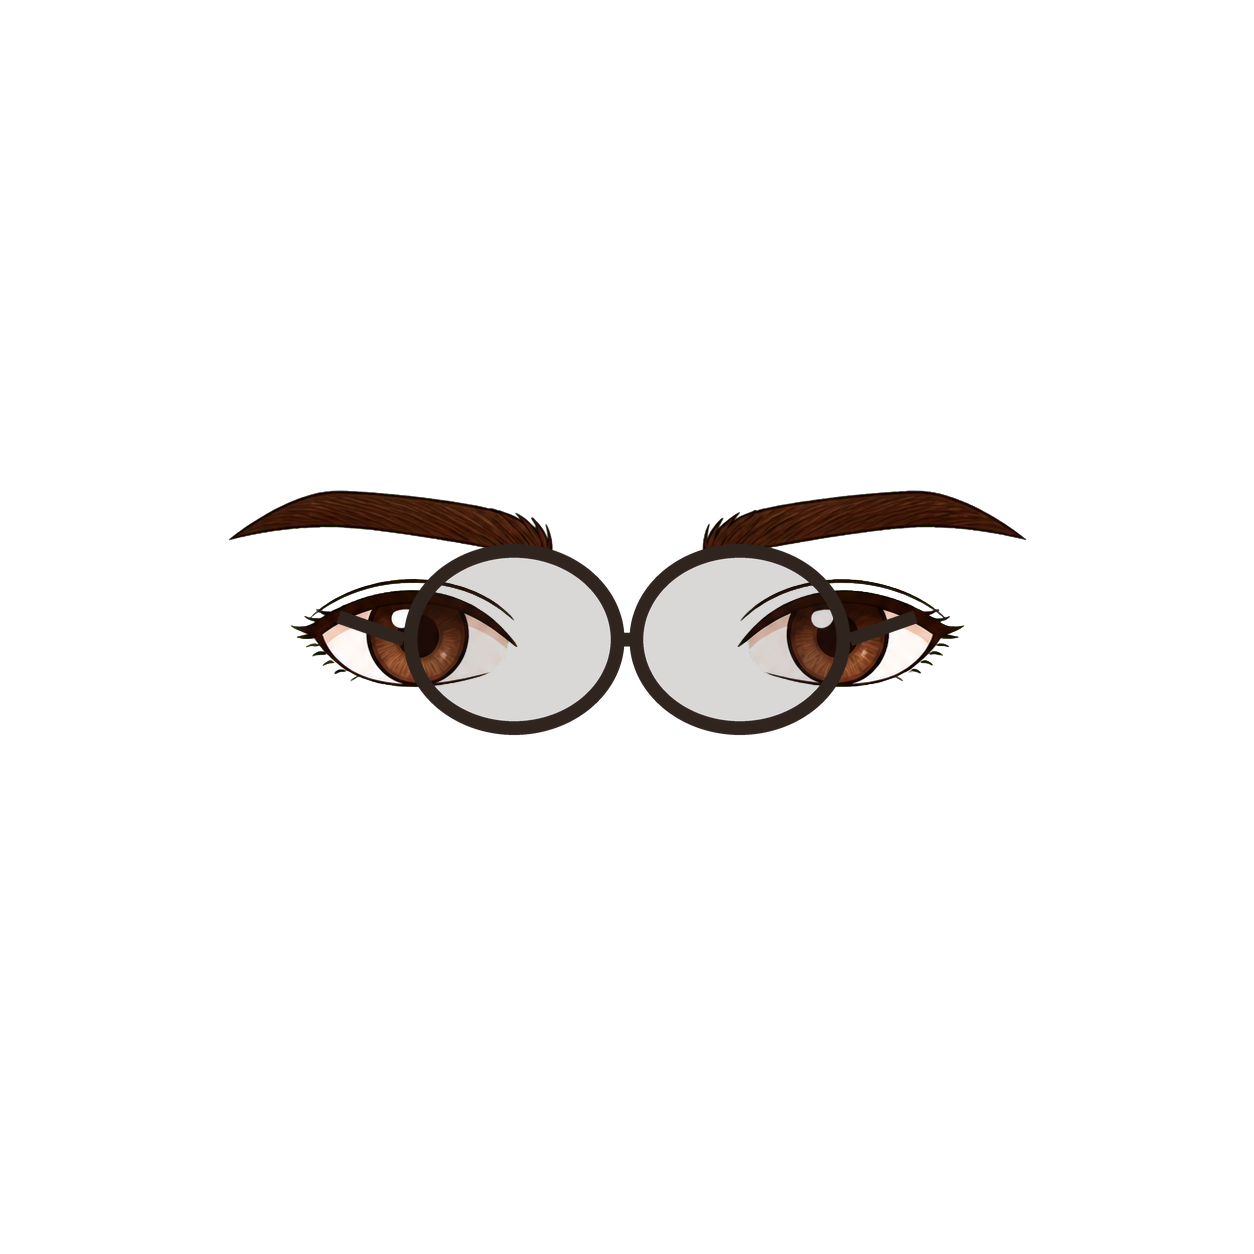
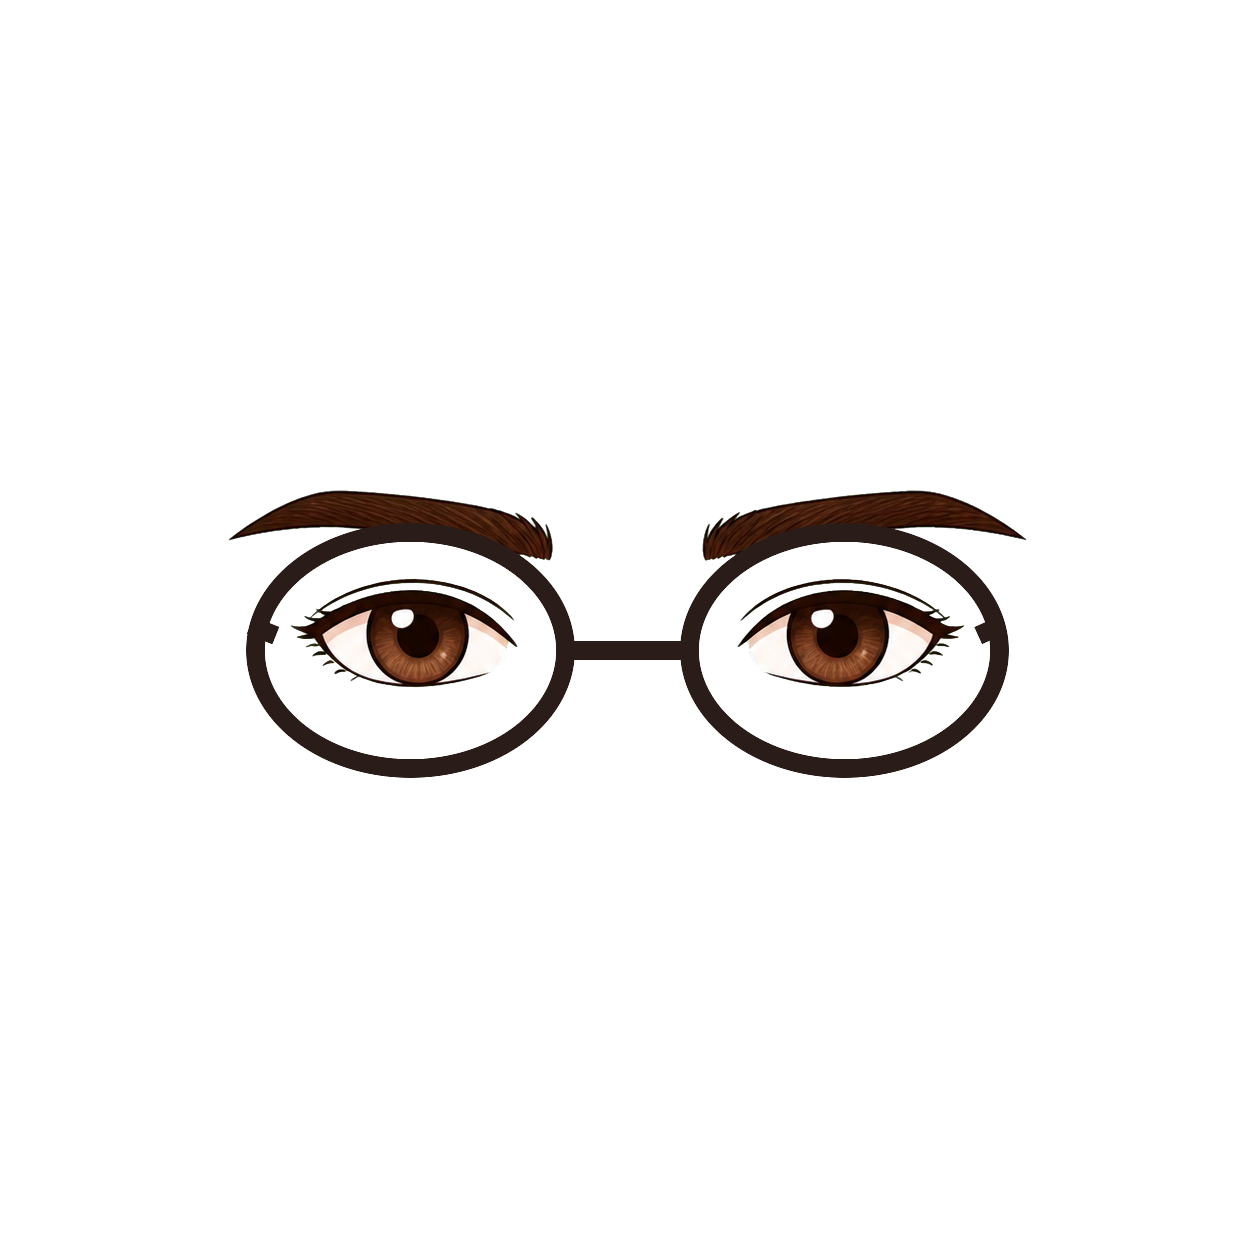
修正：依臉部基準校正紙娃娃素材

Changed region(s): [[0.1866, 0.4043, 0.8086, 0.622], [0.2177, 0.5598, 0.2488, 0.5909]]

diff --git a/test/avatar_visual_matrix_test.dart b/test/avatar_visual_matrix_test.dart
@@ -138,6 +138,49 @@ void main() {
     }
   });
 
+  test('composes every eye option into an inspectable reviewer sheet',
+      () async {
+    final Directory outputDirectory = Directory(
+      '/private/tmp/mathspring-avatar-eye-matrix',
+    );
+    await outputDirectory.create(recursive: true);
+
+    for (final AvatarPresentation presentation in AvatarPresentation.values) {
+      final List<File> composites = <File>[];
+      for (final String eyesId
+          in AvatarConfiguration.optionsFor(presentation, 'eyes')) {
+        final AvatarConfiguration configuration =
+            AvatarConfiguration.defaultFor(presentation).copyWith(
+          eyesId: eyesId,
+        );
+        final File composite = File(
+          '${outputDirectory.path}/${presentation.name}-$eyesId.png',
+        );
+        await _composeAvatar(configuration, composite);
+        expect(await composite.length(), greaterThan(1000), reason: eyesId);
+        composites.add(composite);
+      }
+      final File sheet = File(
+        '${outputDirectory.path}/${presentation.name}-eyes.png',
+      );
+      await _runMagick(<String>[
+        'montage',
+        ...composites.map((File file) => file.path),
+        '-tile',
+        '4x',
+        '-geometry',
+        '130x130+4+18',
+        '-label',
+        '%t',
+        '-background',
+        'white',
+        sheet.path,
+      ]);
+      expect(await sheet.length(), greaterThan(1000),
+          reason: '${presentation.name} eye matrix must be non-empty');
+    }
+  });
+
   test(
       'every non-default skin keeps the composed canvas background transparent',
       () async {
@@ -325,7 +368,8 @@ Future<double> _criticalEyeOverlap(AvatarConfiguration configuration) async {
     '20x40+815+605',
   ];
   double greatestOverlap = 0;
-  final int hairWidth = (1254 * assets.hairScale * assets.hairScaleX.abs()).round();
+  final int hairWidth =
+      (1254 * assets.hairScale * assets.hairScaleX.abs()).round();
   final int hairHeight = (1254 * assets.hairScale).round();
   final int hairOffsetX = (1254 * assets.hairOffsetX).round();
   final int hairOffsetY = (1254 * assets.hairOffsetY).round();

diff --git a/lib/widgets/avatar_editor.dart b/lib/widgets/avatar_editor.dart
@@ -13,11 +13,15 @@ class AvatarEditor extends StatefulWidget {
     this.onChanged,
     this.assetPackage,
     this.sectionSelectorLayout = AvatarSectionSelectorLayout.scrollable,
+    this.showOptionIds = false,
   });
   final AvatarConfiguration? initialConfiguration;
   final ValueChanged<AvatarConfiguration>? onChanged;
   final String? assetPackage;
   final AvatarSectionSelectorLayout sectionSelectorLayout;
+
+  /// Used by the reviewer tool so artwork can be identified unambiguously.
+  final bool showOptionIds;
   @override
   State<AvatarEditor> createState() => _AvatarEditorState();
 }
@@ -244,6 +248,33 @@ class _AvatarEditorState extends State<AvatarEditor> {
                     child: const Padding(
                       padding: EdgeInsets.all(3),
                       child: Icon(Icons.check, color: Colors.white, size: 14),
+                    ),
+                  ),
+                ),
+              if (widget.showOptionIds)
+                Align(
+                  alignment: Alignment.bottomLeft,
+                  child: Padding(
+                    padding: const EdgeInsets.all(3),
+                    child: DecoratedBox(
+                      decoration: BoxDecoration(
+                        color: Colors.black.withValues(alpha: .68),
+                        borderRadius: BorderRadius.circular(4),
+                      ),
+                      child: Padding(
+                        padding: const EdgeInsets.symmetric(
+                          horizontal: 4,
+                          vertical: 2,
+                        ),
+                        child: Text(
+                          id,
+                          style: const TextStyle(
+                            color: Colors.white,
+                            fontSize: 9,
+                            fontWeight: FontWeight.w600,
+                          ),
+                        ),
+                      ),
                     ),
                   ),
                 ),

diff --git a/test/avatar_editor_test.dart b/test/avatar_editor_test.dart
@@ -41,14 +41,38 @@ void main() {
         findsOneWidget);
     expect(find.text('膚色'), findsOneWidget);
 
-    await tester.tap(
-      find.byKey(const ValueKey<String>('avatar_section_tab_3')),
-    );
-    await tester.pump();
+    for (int step = 0; step < 3; step++) {
+      await tester
+          .tap(find.byKey(const ValueKey<String>('avatar_next_button')));
+      await tester.pump();
+    }
 
     expect(find.text('髮型'), findsAtLeastNWidgets(1));
     expect(find.byKey(const ValueKey<String>('avatar_option_girl_hair_01')),
         findsOneWidget);
+  });
+
+  testWidgets('can show stable asset IDs on preview option tiles',
+      (tester) async {
+    await tester.pumpWidget(
+      const MaterialApp(
+        home: Scaffold(body: AvatarEditor(showOptionIds: true)),
+      ),
+    );
+
+    for (int step = 0; step < 3; step++) {
+      await tester
+          .tap(find.byKey(const ValueKey<String>('avatar_next_button')));
+      await tester.pump();
+    }
+
+    expect(find.text('girl_hair_01'), findsOneWidget);
+    await tester.scrollUntilVisible(
+      find.text('girl_hair_10'),
+      120,
+      scrollable: find.byType(Scrollable).last,
+    );
+    expect(find.text('girl_hair_10'), findsOneWidget);
   });
 
   testWidgets('keeps direct section controls and navigation inside iPhone view',
@@ -188,7 +212,8 @@ void main() {
     expect(mouthArt.transform.storage[0], 3);
   });
 
-  testWidgets('shows the third boy hairstyle as its own untransformed thumbnail',
+  testWidgets(
+      'shows the third boy hairstyle as its own untransformed thumbnail',
       (tester) async {
     await tester.pumpWidget(
       const MaterialApp(home: Scaffold(body: AvatarEditor())),

diff --git a/lib/services/avatar_asset_catalog.dart b/lib/services/avatar_asset_catalog.dart
@@ -109,14 +109,7 @@ class AvatarAssetCatalog {
   /// while keeping pupils visible.
   static const Map<String, AvatarOptionTreatment> _treatments =
       <String, AvatarOptionTreatment>{
-    // The baseline front fringe was painted just below the reference face's
-    // hairline; lift it enough to keep the pupils visible.
-    'boy_hair_01': AvatarOptionTreatment(offsetY: -.1),
-    'boy_hair_02': AvatarOptionTreatment(scale: .85, offsetY: -.12),
-    'girl_hair_02': AvatarOptionTreatment(scale: .80, offsetY: -.12),
     'girl_hair_07': AvatarOptionTreatment(scale: .80, offsetY: -.12),
-    'girl_hair_08': AvatarOptionTreatment(scale: .80, offsetY: -.12),
-    'girl_hair_09': AvatarOptionTreatment(scale: .80, offsetY: -.12),
   };
 
   static AvatarOptionTreatment treatmentFor(String optionId) {

diff --git a/test/avatar_layering_test.dart b/test/avatar_layering_test.dart
@@ -95,7 +95,7 @@ void main() {
       }
     });
 
-    test('第一款男生髮型以微量上移對齊基準臉', () {
+    test('第一款男生髮型以共用畫布對齊基準臉', () {
       final AvatarAssetBundle reference = AvatarAssetCatalog.resolve(
         AvatarConfiguration.defaultFor(AvatarPresentation.boy),
       );
@@ -105,7 +105,7 @@ void main() {
       expect(reference.hairScale, 1);
       expect(reference.hairScaleX, 1);
       expect(reference.hairOffsetX, 0);
-      expect(reference.hairOffsetY, -.1);
+      expect(reference.hairOffsetY, 0);
     });
   });
 

diff --git a/test/avatar_preview_test.dart b/test/avatar_preview_test.dart
@@ -391,13 +391,13 @@ void main() {
         'assets/avatars/girl/mouth/mouth-07.png');
   });
 
-  test('calibrates the boy hair layer above the eye line', () {
+  test('keeps the boy baseline hair on the shared face canvas', () {
     final AvatarAssetBundle assets = AvatarAssetCatalog.resolve(
       AvatarConfiguration.defaultFor(AvatarPresentation.boy),
     );
 
     expect(assets.hairScale, 1);
-    expect(assets.hairOffsetY, -.1);
+    expect(assets.hairOffsetY, 0);
   });
 
   test('keeps the new boy hairstyle artwork on its aligned canvas', () {

diff --git a/docs/plans/2026-09-10-avatar-material-specification.md b/docs/plans/2026-09-10-avatar-material-specification.md
@@ -27,14 +27,14 @@
 | 臉型 | `girl_face_01` | 女生基準臉型；髮型驗收的臉部邊界參考 |
 |  | `girl_face_02`–`girl_face_05` | 其他輪廓版本；變化限定在臉型外輪廓，不改五官基準位置 |
 | 髮型 | `girl_hair_01` | 基準短鮑伯＋齊瀏海 |
-|  | `girl_hair_02` | 束髮造型；臉側髮束不可壓眼 |
+|  | `girl_hair_02` | 側分中長微捲髮；右側波浪落在臉外，不壓眼 |
 |  | `girl_hair_03` | 中分長波浪髮 |
 |  | `girl_hair_04` | 長鮑伯／齊瀏海 |
 |  | `girl_hair_05` | 低位雙束髮 |
 |  | `girl_hair_06` | 前後分層的雙馬尾；馬尾落在臉後 |
 |  | `girl_hair_07` | 高馬尾／側瀏海 |
-|  | `girl_hair_08` | 蓬鬆捲髮 |
-|  | `girl_hair_09` | 短鮑伯／短髮輪廓 |
+|  | `girl_hair_08` | 暖棕色長鮑伯／齊瀏海；額頭和雙眼保持淨空 |
+|  | `girl_hair_09` | 深棕色低位雙束髮；雙束落在臉頰外側 |
 |  | `girl_hair_10` | 雙辮髮 |
 | 眼睛 | `girl_eyes_01` | 預設正常眼睛；唯一需要保留的無眼鏡基準款 |
 |  | `girl_eyes_02`–`girl_eyes_05` | 舊有正常眼睛變體；待人工檢視後決定保留或停止提供，避免相似選項過多 |
